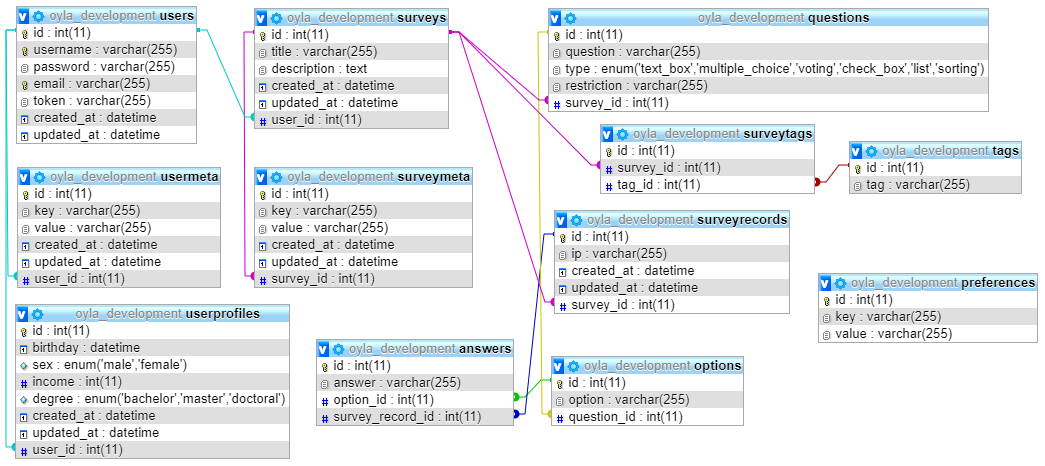
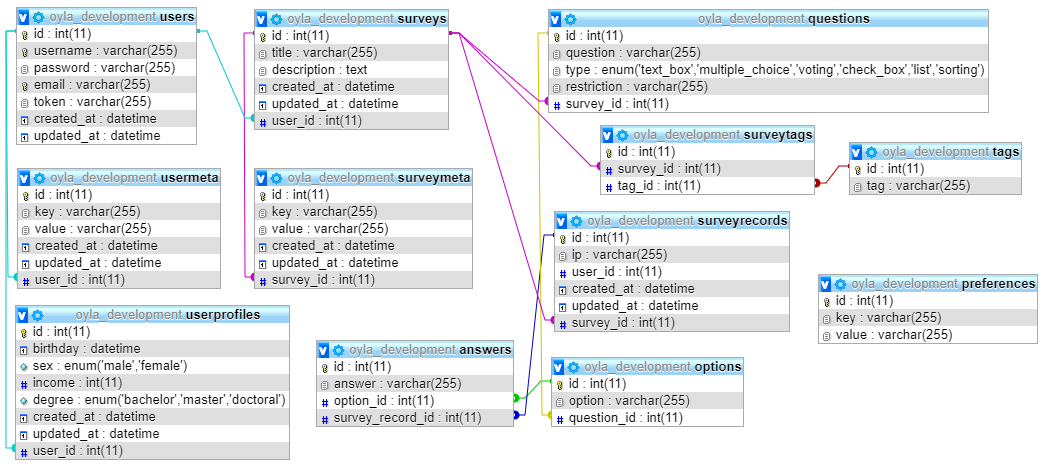
Added user_id attribute to SurveyRecord model.

diff --git a/models/surveyrecord.js b/models/surveyrecord.js
@@ -4,7 +4,8 @@ module.exports = (sequelize, DataTypes) => {
     ip: {
       type: DataTypes.STRING,
       allowNull: false
-    }
+    },
+    user_id: DataTypes.INTEGER
   }, {
     underscored: true
   });
